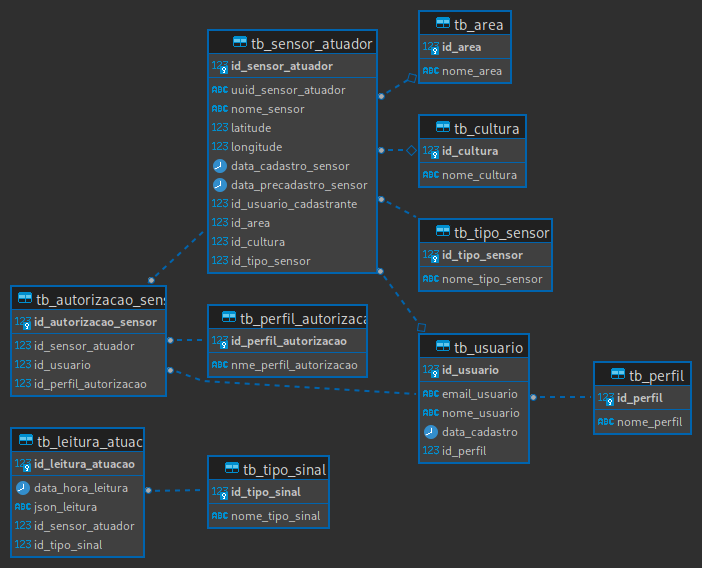
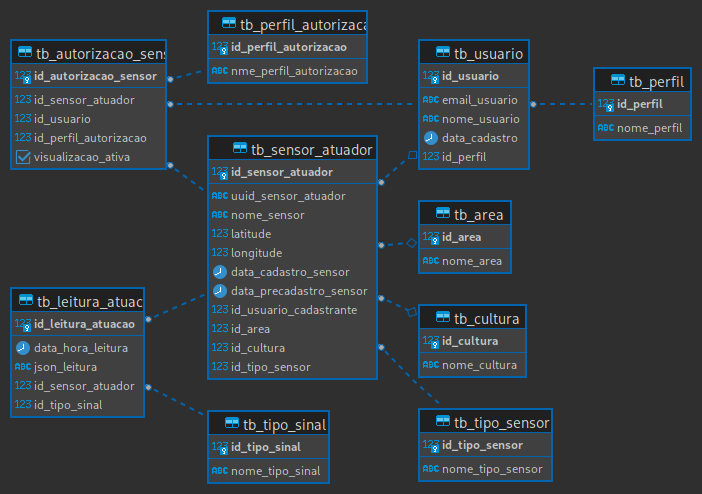
Atualização de scripts DDL e modelo de dados. Criação de scripts DML para inserção de carga inicial de dados de domínio, assim como pré-cadastro do sensor virtualizado. Criação de entidades de modelo de dados SQL Alchemy.

diff --git a/model/sensor_atuador_model.py b/model/sensor_atuador_model.py
@@ -1,0 +1,23 @@
+from sqlalchemy import Column, Integer, String, Float, Date, ForeignKey, UniqueConstraint
+from sqlalchemy.ext.declarative import declarative_base
+
+Base = declarative_base()
+
+class SensorAtuador(Base):
+    __tablename__ = 'tb_sensor_atuador'
+
+    id_sensor_atuador = Column(Integer, primary_key=True)
+    uuid_sensor_atuador = Column(String(255), nullable=False)
+    nome_sensor = Column(String(255))
+    latitude = Column(Float)
+    longitude = Column(Float)
+    data_cadastro_sensor = Column(Date)
+    data_precadastro_sensor = Column(Date, nullable=False, server_default='CURRENT_DATE')
+    id_usuario_cadastrante = Column(Integer, ForeignKey('tb_usuario.id_usuario'))
+    id_area = Column(Integer, ForeignKey('tb_area.id_area'))
+    id_cultura = Column(Integer, ForeignKey('tb_cultura.id_cultura'))
+    id_tipo_sensor = Column(Integer, ForeignKey('tb_tipo_sensor.id_tipo_sensor'))
+
+    __table_args__ = (
+        UniqueConstraint('uuid_sensor_atuador', name='idx_uuid_sensor'),
+    )

diff --git a/model/leitura_atuacao_model.py b/model/leitura_atuacao_model.py
@@ -1,12 +1,13 @@
-from sqlalchemy import Column, Integer, DateTime, Text
+from sqlalchemy import Column, Integer, Text, DateTime, ForeignKey
 from sqlalchemy.ext.declarative import declarative_base
 
 Base = declarative_base()
+
 
 class LeituraAtuacao(Base):
     __tablename__ = 'tb_leitura_atuacao'
     id_leitura_atuacao = Column(Integer, primary_key=True)
     data_hora_leitura = Column(DateTime(timezone=True), nullable=False)
     json_leitura = Column(Text)
-    id_sensor_atuador = Column(Integer, nullable=False)
-    id_tipo_sinal = Column(Integer, nullable=False)
+    id_sensor_atuador = Column(Integer, ForeignKey('tb_sensor_atuador.id_sensor_atuador'), nullable=False)
+    id_tipo_sinal = Column(Integer, ForeignKey('tb_tipo_sinal.id_tipo_sinal'), nullable=False)

diff --git a/model/autorizacao_sensor_model.py b/model/autorizacao_sensor_model.py
@@ -1,0 +1,13 @@
+from sqlalchemy import Column, Integer, Boolean, ForeignKey
+from sqlalchemy.ext.declarative import declarative_base
+
+Base = declarative_base()
+
+
+class AutorizacaoSensor(Base):
+    __tablename__ = 'tb_autorizacao_sensor'
+    id_autorizacao_sensor = Column(Integer, primary_key=True)
+    id_sensor_atuador = Column(Integer, ForeignKey('tb_sensor_atuador.id_sensor_atuador'), nullable=False)
+    id_usuario = Column(Integer, ForeignKey('tb_usuario.id_usuario'), nullable=False)
+    id_perfil_autorizacao = Column(Integer, ForeignKey('tb_perfil_autorizacao.id_perfil_autorizacao'), nullable=False)
+    visualizacao_ativa = Column(Boolean, nullable=False, default=False)

diff --git a/model/usuario_model.py b/model/usuario_model.py
@@ -1,0 +1,13 @@
+from sqlalchemy import Column, Integer, String, Date, ForeignKey
+from sqlalchemy.ext.declarative import declarative_base
+
+Base = declarative_base()
+
+
+class Usuario(Base):
+    __tablename__ = 'tb_usuario'
+    id_usuario = Column(Integer, primary_key=True)
+    email_usuario = Column(String(255), nullable=False)
+    nome_usuario = Column(String(255), nullable=False)
+    data_cadastro = Column(Date, nullable=False)
+    id_perfil = Column(Integer, ForeignKey('tb_perfil.id_perfil'), nullable=False)

diff --git a/mdl_dao/database.py b/mdl_dao/database.py
@@ -1,9 +1,14 @@
+from dotenv import load_dotenv
 from sqlalchemy import create_engine
 from sqlalchemy.orm import sessionmaker
 import os
 
 
 def create_session():
+    # Carregar as variáveis de ambiente do arquivo .env
+    load_dotenv()
+
+    # Recuperar as variáveis de ambiente e salvá-las em variáveis, para acesso ao banco de dados
     host = os.environ.get('DB_HOST')
     port = os.environ.get('DB_PORT')
     dbname = os.environ.get('DB_NAME')

diff --git a/model/perfil_autorizacao_model.py b/model/perfil_autorizacao_model.py
@@ -1,0 +1,10 @@
+from sqlalchemy import Column, Integer, String
+from sqlalchemy.ext.declarative import declarative_base
+
+Base = declarative_base()
+
+
+class PerfilAutorizacao(Base):
+    __tablename__ = 'tb_perfil_autorizacao'
+    id_perfil_autorizacao = Column(Integer, primary_key=True)
+    nme_perfil_autorizacao = Column(String(100), nullable=False)

diff --git a/model/tipo_sensor_model.py b/model/tipo_sensor_model.py
@@ -1,0 +1,11 @@
+from sqlalchemy import Column, Integer, String
+from sqlalchemy.ext.declarative import declarative_base
+
+Base = declarative_base()
+
+
+class TipoSensor(Base):
+    __tablename__ = 'tb_tipo_sensor'
+
+    id_tipo_sensor = Column(Integer, primary_key=True, autoincrement=True)
+    nome_tipo_sensor = Column(String(255), nullable=False)

diff --git a/model/tipo_sinal_model.py b/model/tipo_sinal_model.py
@@ -1,0 +1,10 @@
+from sqlalchemy import Column, Integer, String
+from sqlalchemy.ext.declarative import declarative_base
+
+Base = declarative_base()
+
+class TipoSinal(Base):
+    __tablename__ = 'tb_tipo_sinal'
+
+    id_tipo_sinal = Column(Integer, primary_key=True, autoincrement=True)
+    nome_tipo_sinal = Column(String(50), nullable=False)

diff --git a/model/cultura_model.py b/model/cultura_model.py
@@ -1,0 +1,10 @@
+from sqlalchemy import Column, Integer, String
+from sqlalchemy.ext.declarative import declarative_base
+
+Base = declarative_base()
+
+
+class Cultura(Base):
+    __tablename__ = 'tb_cultura'
+    id_cultura = Column(Integer, primary_key=True)
+    nome_cultura = Column(String(255), nullable=False)

diff --git a/model/perfil_model.py b/model/perfil_model.py
@@ -1,0 +1,10 @@
+from sqlalchemy import Column, Integer, String
+from sqlalchemy.ext.declarative import declarative_base
+
+Base = declarative_base()
+
+
+class Perfil(Base):
+    __tablename__ = 'tb_perfil'
+    id_perfil = Column(Integer, primary_key=True)
+    nome_perfil = Column(String(50), nullable=False)

diff --git a/model/area_model.py b/model/area_model.py
@@ -1,0 +1,10 @@
+from sqlalchemy import Column, Integer, String
+from sqlalchemy.ext.declarative import declarative_base
+
+Base = declarative_base()
+
+
+class Area(Base):
+    __tablename__ = 'tb_area'
+    id_area = Column(Integer, primary_key=True)
+    nome_area = Column(String(255), nullable=False)

diff --git a/README.md b/README.md
@@ -1,0 +1,4 @@
+# Planto IoT Backend
+
+Este é o repositório para backend do projeto Planto IoT, escrito em Python.
+
